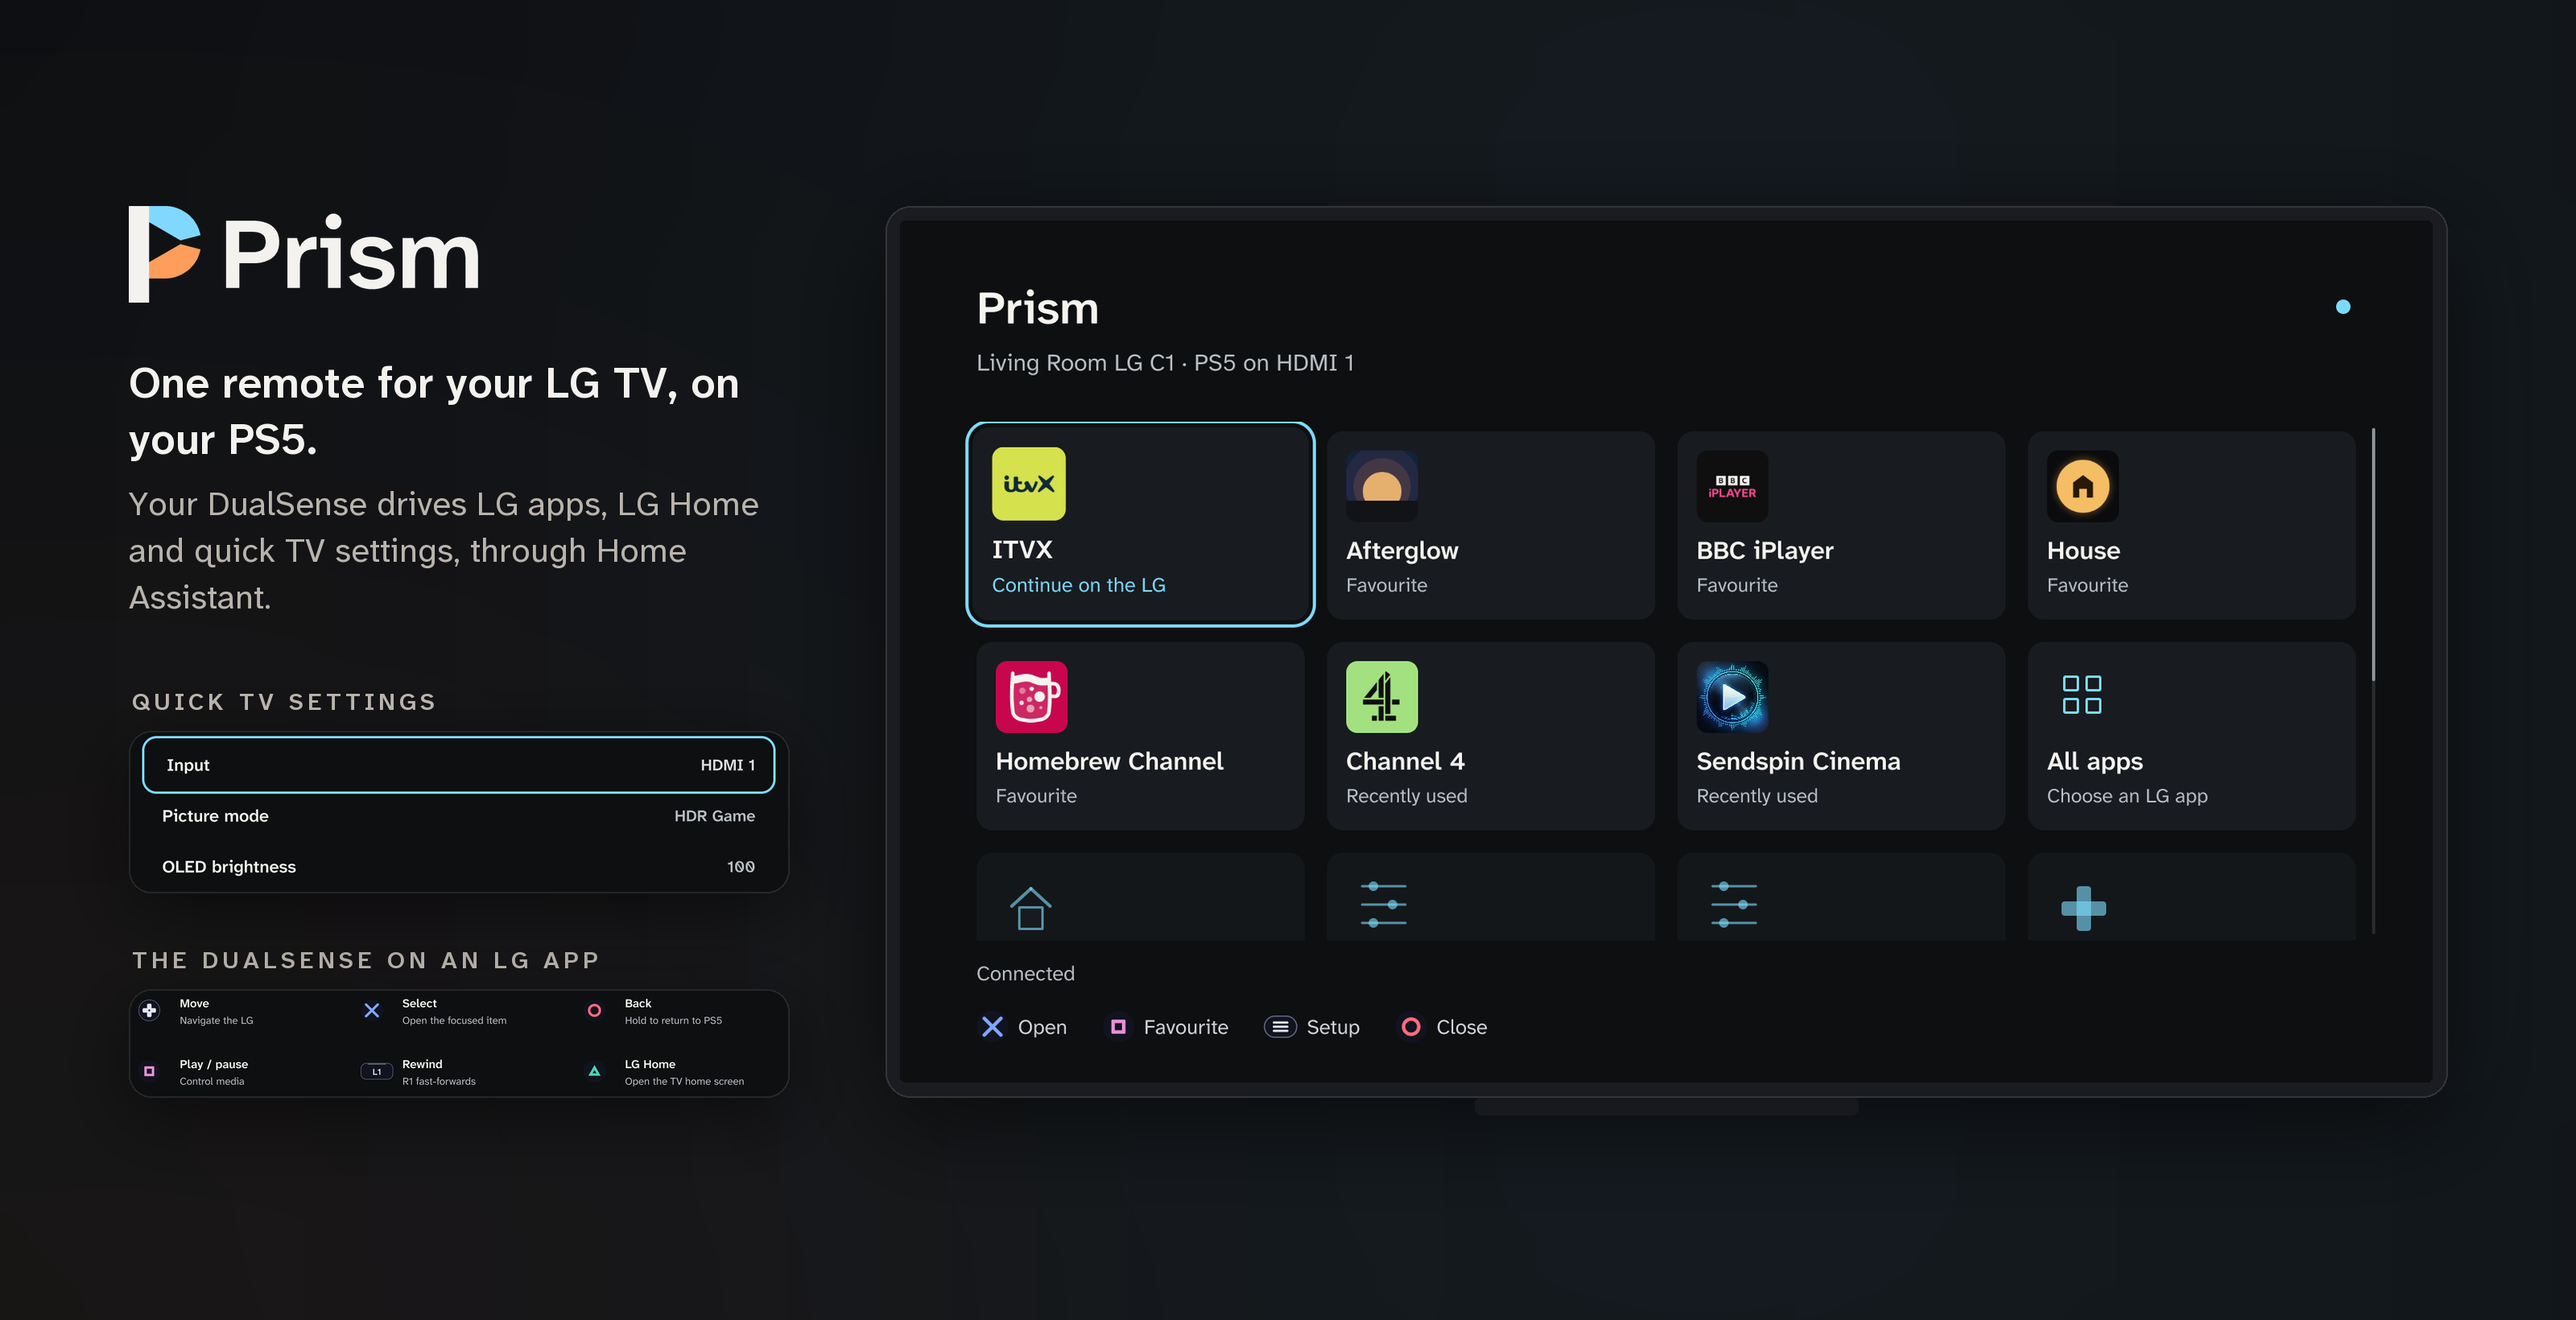
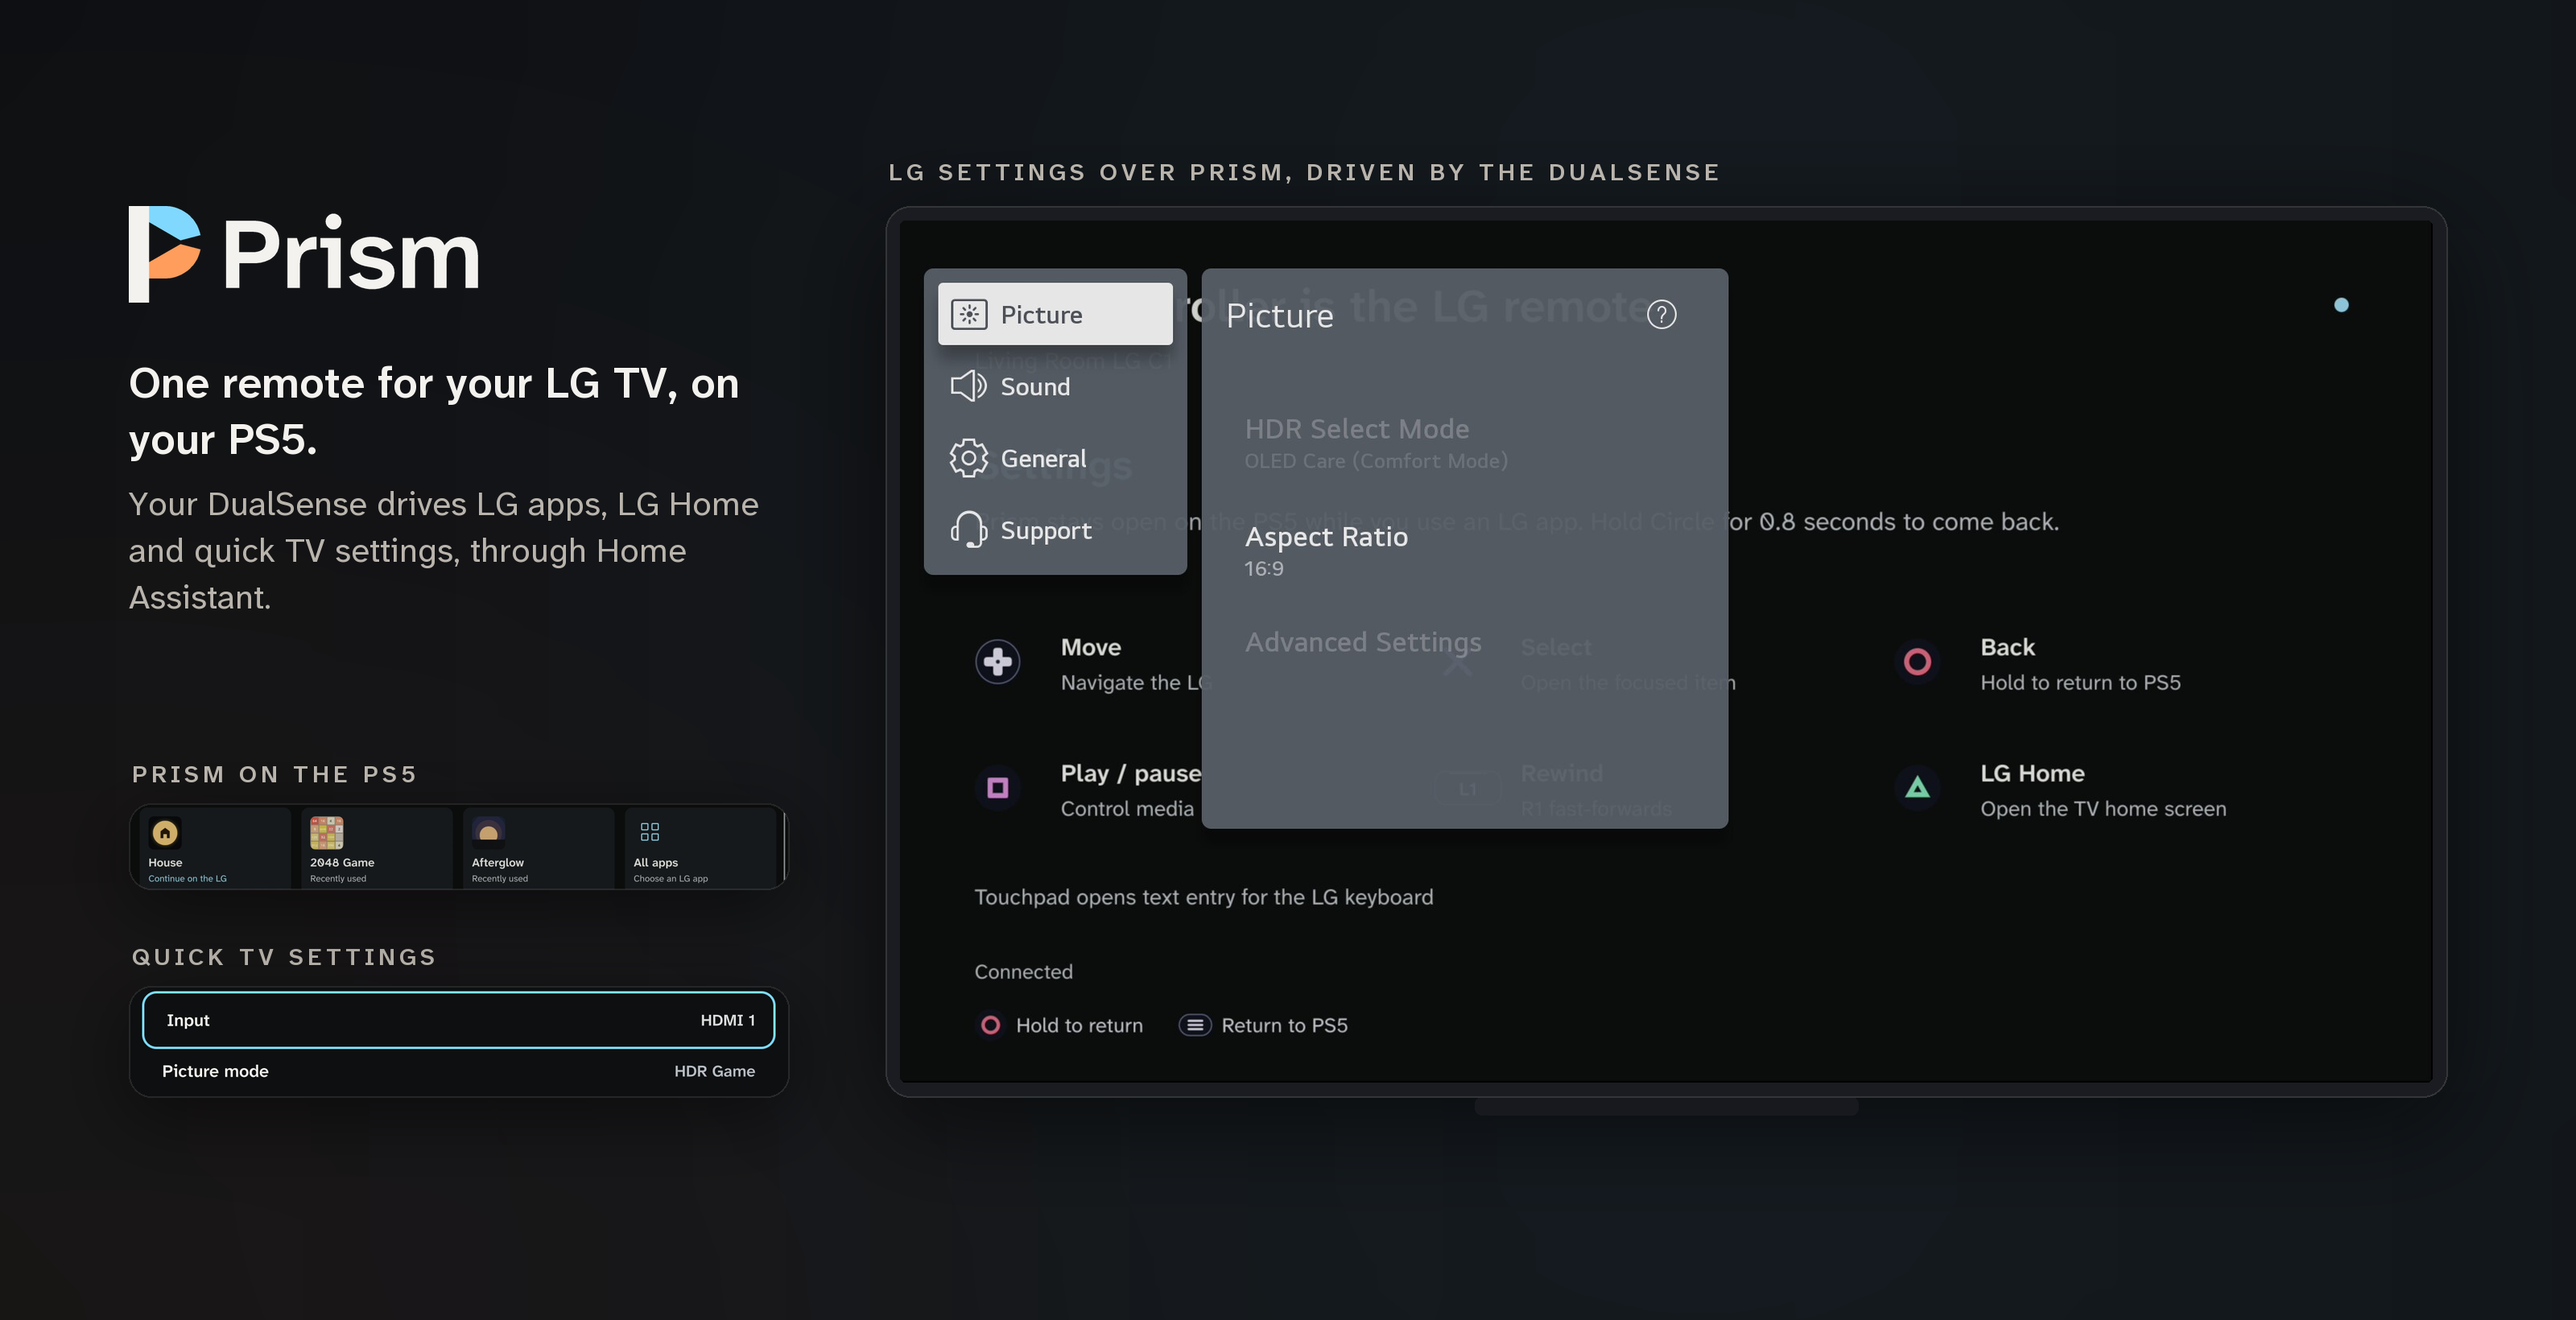
1.0.1: name LG system screens; show Prism on the TV
The remote screen named Game Optimizer by its app ID. It is now named,
and any other com.webos. or com.palm. screen without a name is
"LG screen".

The README's hero and screenshots now lead with pictures the TV took of
itself (webOS's capture service) while the PS5 showed Prism: the
launcher, and LG Settings and Game Optimizer open over Prism's remote
screen.

diff --git a/tools/hero.py b/tools/hero.py
@@ -1,16 +1,18 @@
 #!/usr/bin/env python3
-# Prism for PS5 - README hero and screenshots from the native renders.
+# Prism for PS5 - README hero and screenshots from TV captures and the native renders.
 # Copyright (C) 2026 Hayden Griffin
 # SPDX-License-Identifier: GPL-3.0-or-later
-"""Draw docs/images/hero.png and docs/images/screenshots/ from `make promo` renders.
+"""Draw docs/images/hero.png and docs/images/screenshots/.
 
-    docs/images/hero.png         3200 × 1640: the launcher on a TV, Quick TV settings and the
-                                 remote screen beside it, with the lockup and tagline
-    docs/images/screenshots/     the launcher, all LG apps, the remote screen and Quick TV settings
+    docs/images/hero.png         3200 × 1640: LG Settings over Prism on a TV, with Prism's
+                                 launcher and Quick TV settings beside it, the lockup and tagline
+    docs/images/screenshots/     all LG apps, the remote screen and Quick TV settings
 
-The renders are 1920 × 1080 PNGs from Prism's own UI code and shaders (build/promo/), drawn
-from a snapshot of a real Home Assistant (tools/capture-promo.py). The layout follows the
-Android TV app's hero (prism/tools/hero.py).
+docs/images/tv/ holds screenshots the TV took of itself (webOS's capture service, DISPLAY
+method) while the PS5 showed Prism: the launcher, and LG Settings opened from Prism over its
+remote screen. The other pictures are 1920 × 1080 renders from Prism's own UI code and
+shaders (build/promo/), drawn from a snapshot of a real Home Assistant
+(tools/capture-promo.py). The layout follows the Android TV app's hero (prism/tools/hero.py).
 
     pip install pillow
     python3 tools/hero.py [build/promo]
@@ -46,9 +48,10 @@ TAGLINE = [  # (text, font, colour, line height)
 ]
 
 # Regions of the 1920 × 1080 renders (left, top, right, bottom).
-QUICK_CROP = (64, 232, 1208, 512)    # the first three settings
-REMOTE_CROP = (72, 500, 1780, 780)   # the DualSense controls
-SHOTS = {"launcher": "launcher", "apps": "apps", "remote": "remote", "quick-settings": "quick-settings"}
+QUICK_CROP = (64, 232, 1208, 424)     # the first two settings
+LAUNCHER_CROP = (64, 250, 1856, 484)  # the first row: Continue on the LG and recent apps
+TV = ROOT / "docs" / "images" / "tv"
+SHOTS = ("apps", "remote", "quick-settings")
 
 
 def font(weight, size):
@@ -163,7 +166,7 @@ def captioned_panel(canvas, image, label, left, bottom, width):
     return top - 26 - 30
 
 
-def hero(launcher, quick, remote):
+def hero(settings, launcher, quick):
     canvas = Image.new("RGB", (WIDTH, HEIGHT), NIGHT)
     glow(canvas, (2100, 820), 1100, SKY, 0.07)
     glow(canvas, (420, 1400), 700, AMBER, 0.045)
@@ -173,13 +176,15 @@ def hero(launcher, quick, remote):
     screen_w = WIDTH - 2 * MARGIN - column_w - gap - 36
     screen_h = round(screen_w * 9 / 16)
     top = (HEIGHT - screen_h) // 2 - 10
-    tv(canvas, launcher, MARGIN + column_w + gap + 18, top, screen_w)
+    screen_left = MARGIN + column_w + gap + 18
+    tv(canvas, settings, screen_left, top, screen_w)
+    caption(canvas, "LG Settings over Prism, driven by the DualSense", screen_left - 14, top - 50)
 
     below_text = text_column(canvas, MARGIN, top - 18, column_w)
     bottom = top + screen_h + 18
-    remote_top = captioned_panel(canvas, remote, "The DualSense on an LG app", MARGIN, bottom, column_w)
-    quick_top = captioned_panel(canvas, quick, "Quick TV settings", MARGIN, remote_top - 64, column_w)
-    assert quick_top > below_text + 40, f"the panels run into the tagline ({quick_top} <= {below_text + 40})"
+    quick_top = captioned_panel(canvas, quick, "Quick TV settings", MARGIN, bottom, column_w)
+    launcher_top = captioned_panel(canvas, launcher, "Prism on the PS5", MARGIN, quick_top - 64, column_w)
+    assert launcher_top > below_text + 40, f"the panels run into the tagline ({launcher_top} <= {below_text + 40})"
     return canvas
 
 
@@ -191,9 +196,10 @@ def save_png(image, path):
 
 def main():
     renders = Path(sys.argv[1]) if len(sys.argv) > 1 else ROOT / "build" / "promo"
-    shots = {name: Image.open(renders / f"{source}.png").convert("RGB") for name, source in SHOTS.items()}
-    save_png(hero(shots["launcher"], shots["quick-settings"].crop(QUICK_CROP), shots["remote"].crop(REMOTE_CROP)),
-             OUT / "hero.png")
+    shots = {name: Image.open(renders / f"{name}.png").convert("RGB") for name in SHOTS}
+    settings = Image.open(TV / "lg-settings.jpg").convert("RGB")
+    launcher = Image.open(TV / "launcher.jpg").convert("RGB")
+    save_png(hero(settings, launcher.crop(LAUNCHER_CROP), shots["quick-settings"].crop(QUICK_CROP)), OUT / "hero.png")
     for name, image in shots.items():
         save_png(image, OUT / "screenshots" / f"{name}.png")
 

diff --git a/src/prism/model.cpp b/src/prism/model.cpp
@@ -229,17 +229,21 @@ const std::vector<Setting> &settings()
 }
 std::string system_title(const std::string &id)
 {
-    // The same names as Prism for Android TV (RouteStatus.SYSTEM_TITLES).
+    // The names Prism for Android TV uses (RouteStatus.SYSTEM_TITLES), and screens LG Settings
+    // opens. Any other LG system screen is "LG screen", never its raw ID.
     static const std::map<std::string, std::string> titles{
         {"com.webos.app.home", "LG Home"},
+        {"com.webos.app.gameoptimizer", "Game Optimizer"},
+        {"com.webos.app.quickinputpicker", "LG inputs"},
         {"com.palm.app.settings", "LG Settings"},
         {"com.webos.app.settings", "LG Settings"},
         {"com.webos.app.quicksettings", "Quick Settings"},
         {"com.webos.app.tvuserguide", "User Guide"},
         {"com.webos.app.voice", "LG search"},
         {"com.webos.systemui.notification", "LG message"}};
-    auto it = titles.find(id);
-    return it == titles.end() ? "" : it->second;
+    if (auto it = titles.find(id); it != titles.end())
+        return it->second;
+    return id.starts_with("com.webos.") || id.starts_with("com.palm.") ? "LG screen" : "";
 }
 bool launchable(const std::string &id)
 {

diff --git a/src/prism/model.hpp b/src/prism/model.hpp
@@ -68,7 +68,8 @@ struct Setting
 const std::vector<Setting> &settings();
 std::vector<App> catalog(const Tv &tv, const StateTable &states);
 bool launchable(const std::string &id);
-// The LG's own screens, which are not in the app catalogue; "" for anything else.
+// The LG's own screens, which are not in the app catalogue (any com.webos. or com.palm. one is
+// at least "LG screen"); "" for anything else.
 std::string system_title(const std::string &id);
 std::string target(const Tv &tv, const StateTable &states);
 bool overlay_on_input(const Tv &tv, const StateTable &states, const std::string &input_app);

diff --git a/tests/tests.cpp b/tests/tests.cpp
@@ -216,6 +216,8 @@ int main(int argc, char **argv)
     CHECK(!launchable("com.webos.app.hdmi3"));
     CHECK(system_title("com.webos.app.tvuserguide") == "User Guide");
     CHECK(system_title("com.palm.app.settings") == "LG Settings");
+    CHECK(system_title("com.webos.app.gameoptimizer") == "Game Optimizer");
+    CHECK(system_title("com.webos.app.somethingnew") == "LG screen");
     CHECK(system_title("org.example.app").empty());
     CHECK(!launchable("com.palm.app.settings"));
     CHECK(launchable("youtube.leanback.v4"));

diff --git a/README.md b/README.md
@@ -1,5 +1,5 @@
 <p align="center">
-  <img src="docs/images/hero.png" alt="Prism on a PS5: the launcher with Continue on the LG, favourite LG apps with their own icons and recently used apps, beside Quick TV settings and the DualSense controls for an LG app" width="100%">
+  <img src="docs/images/hero.png" alt="Prism on a PS5, captured by the TV: LG Settings open over Prism's remote screen, driven by the DualSense, beside Prism's launcher and Quick TV settings" width="100%">
 </p>
 
 # Prism for PS5
@@ -12,7 +12,7 @@ Prism is also a launcher for the LG, so you can open LG apps, LG Home, LG Settin
 without picking up the LG remote. It is the PS5 edition of [Prism for Android TV](https://github.com/HaydenGriffin/prism),
 which does the same from an Android TV box's remote.
 
-> **Status:** Prism 1.0.0 has run on one PS5 (system software 7.20, ShadowMount Plus 1.7-beta5fix1, ftpsrv
+> **Status:** Prism has run on one PS5 (system software 7.20, ShadowMount Plus 1.7-beta5fix1, ftpsrv
 > 0.21.1) with a rooted 2021 LG C1 and a Home Assistant of about 3,100 entities. Connecting, the launcher, opening
 > LG apps, LG Home and LG Settings, the D-pad, Cross and Back, and the screens LG Settings opens (Game Optimizer)
 > were checked there. Holding Circle to return, touchpad text entry, long idle sessions and rest mode have not been
@@ -40,16 +40,20 @@ forwards again.
 
 ## Screenshots
 
-Rendered by Prism's own UI code and shaders from a live Home Assistant and a 2021 LG C1; see
-[Promotional pictures](#promotional-pictures).
+The ones marked "on the TV" were taken by the TV itself (a 2021 LG C1) while the PS5 showed Prism. The rest are
+rendered by Prism's own UI code and shaders from a live Home Assistant; see [Promotional pictures](#promotional-pictures).
 
-| The launcher | All LG apps |
+| The launcher, on the TV | LG Settings opened from Prism, on the TV |
 |---|---|
-| <img src="docs/images/screenshots/launcher.png" alt="The Prism launcher: Continue on the LG with ITVX, favourite LG apps with their own icons, and recently used apps"> | <img src="docs/images/screenshots/apps.png" alt="All LG apps: Channel 4, Glasshouse, Home Dashboard, Homebrew Channel, House, ITVX, Media Player and Sendspin Cinema"> |
+| <img src="docs/images/tv/launcher.jpg" alt="The Prism launcher on the TV: House to continue on the LG, recently used apps, all apps, LG Home, LG Settings, Quick TV settings and Use as a remote"> | <img src="docs/images/tv/lg-settings.jpg" alt="LG Settings open over Prism's remote screen: Picture, Sound, General and Support, with Prism's controls showing through behind it"> |
 
-| Controlling an LG app | Quick TV settings |
+| All LG apps | Controlling an LG app |
 |---|---|
-| <img src="docs/images/screenshots/remote.png" alt="The remote screen over BBC iPlayer: the D-pad moves, Cross selects, Circle goes back, Square plays and pauses, L1 and R1 rewind and fast-forward, Triangle opens LG Home"> | <img src="docs/images/screenshots/quick-settings.png" alt="Quick TV settings: input, picture mode, OLED brightness, energy saving, sound mode, sleep timer and logo dimming"> |
+| <img src="docs/images/screenshots/apps.png" alt="All LG apps: Channel 4, Glasshouse, Home Dashboard, Homebrew Channel, House, ITVX, Media Player and Sendspin Cinema"> | <img src="docs/images/screenshots/remote.png" alt="The remote screen over BBC iPlayer: the D-pad moves, Cross selects, Circle goes back, Square plays and pauses, L1 and R1 rewind and fast-forward, Triangle opens LG Home"> |
+
+| Game Optimizer from LG Settings, on the TV | Quick TV settings |
+|---|---|
+| <img src="docs/images/tv/game-optimizer.jpg" alt="LG's Game Optimizer open over Prism's remote screen, with Prism's line underneath: Game Optimizer is on the LG, hold Circle to return to the PS5"> | <img src="docs/images/screenshots/quick-settings.png" alt="Quick TV settings: input, picture mode, OLED brightness, energy saving, sound mode, sleep timer and logo dimming"> |
 
 ## Requirements
 
@@ -169,7 +173,16 @@ python3 tools/hero.py
 ```
 
 The snapshot stays in the ignored `build/` folder and holds no token. `tools/hero.py` (Pillow) draws
-`docs/images/hero.png` and `docs/images/screenshots/` from the renders.
+`docs/images/hero.png` and `docs/images/screenshots/` from the renders and the TV captures in
+`docs/images/tv/`. On a rooted LG, those come from webOS's capture service, which saves whatever is on screen,
+LG menus included:
+
+```sh
+luna-send -n 1 luna://com.webos.service.capture/executeOneShot \
+    '{"path": "/tmp/capture.jpg", "method": "DISPLAY", "width": 1920, "height": 1080, "format": "JPEG"}'
+```
+
+Over SSH, `luna-send` can return nothing for this call; running it from a `node` child process on the TV works.
 
 ## Source layout
 

diff --git a/CHANGELOG.md b/CHANGELOG.md
@@ -1,5 +1,12 @@
 # Changelog
 
+## 1.0.1 (27 October 2026)
+
+- The remote screen names Game Optimizer, and any other LG system screen without a name of its own is "LG screen",
+  instead of showing its app ID.
+- The README and its pictures show Prism on the TV: screenshots the TV took of LG Settings and Game Optimizer
+  open over Prism.
+
 ## 1.0.0 (27 October 2026)
 
 The first release: Prism's LG remote and launcher as a native PS5 title, run on one console (system software 7.20)
